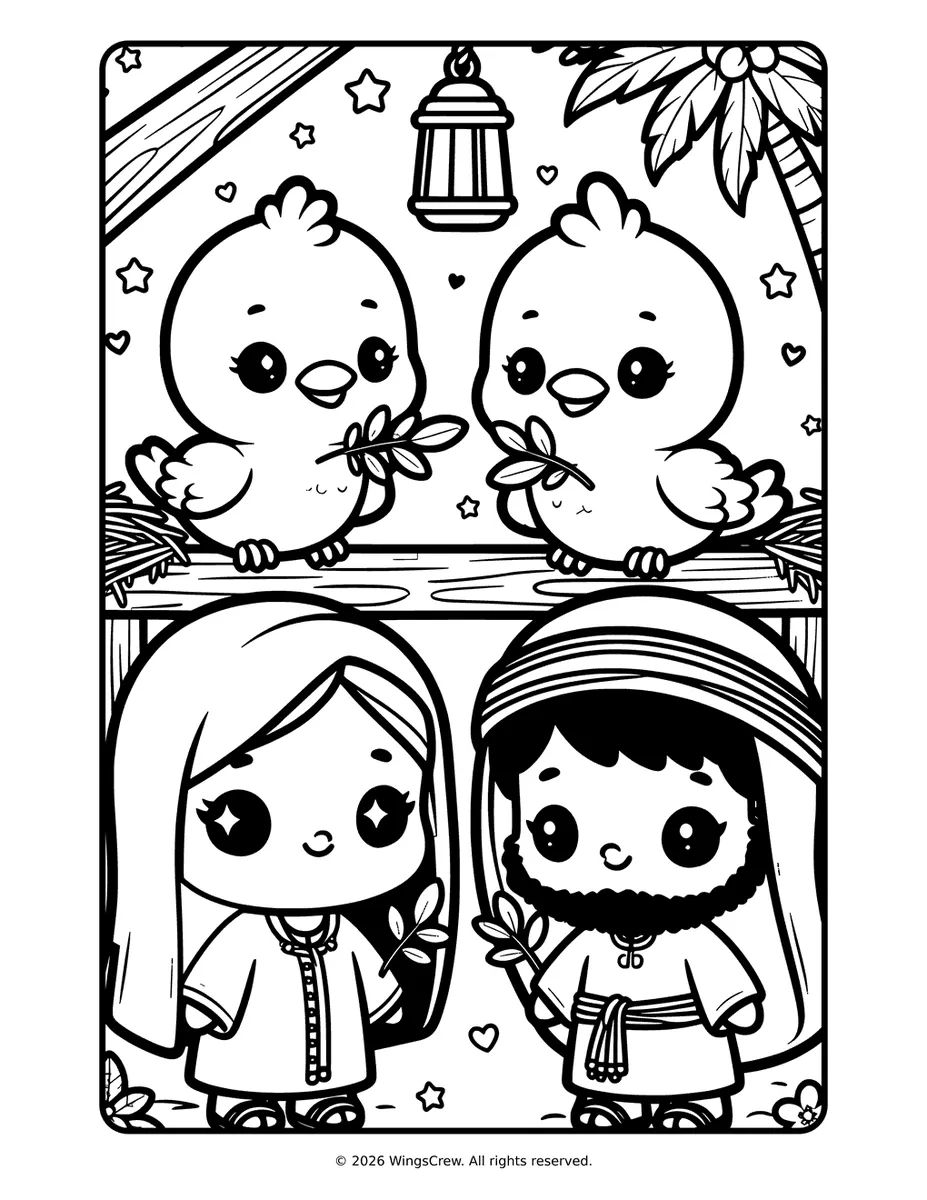
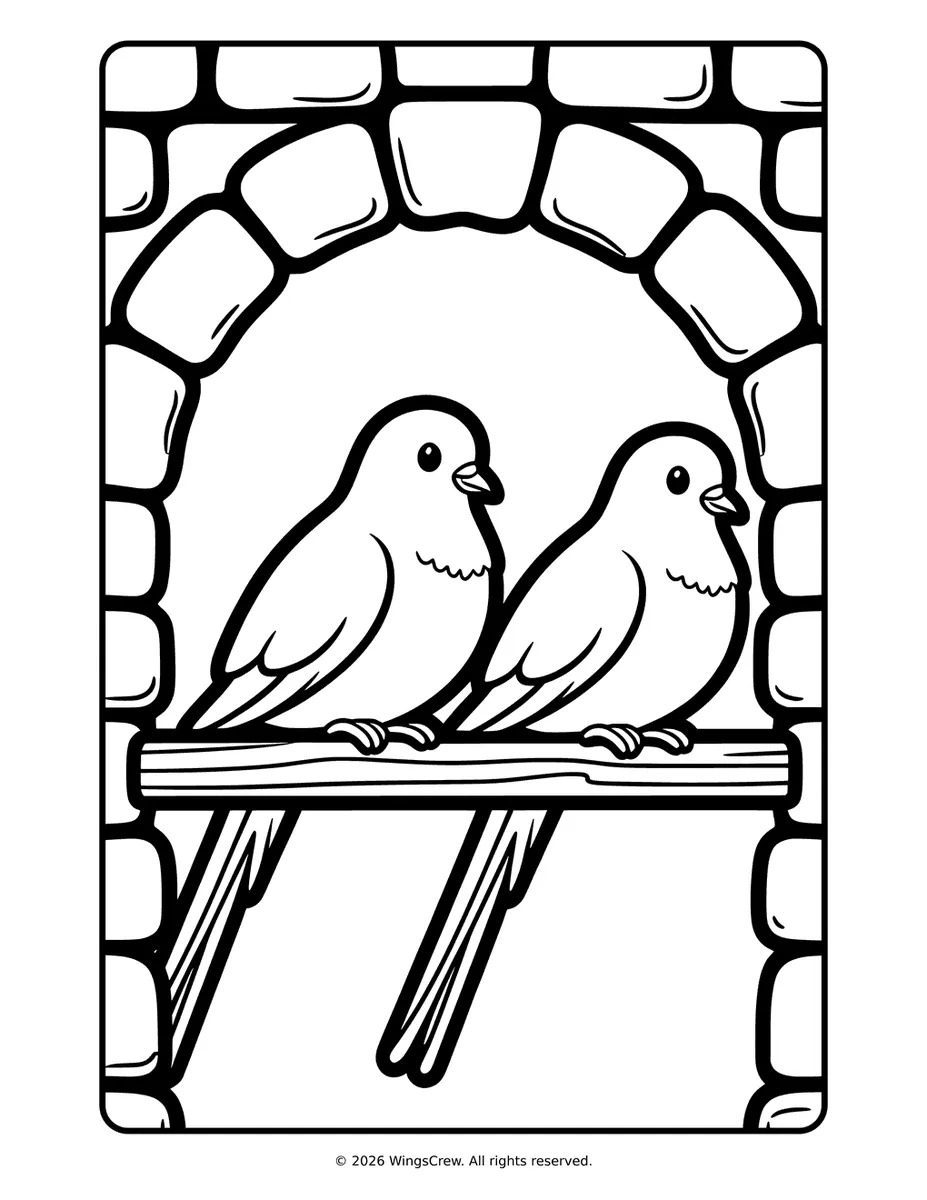
Replace the nativity page 22 art and mark it NEW.
The file names stay p22_a.webp and p22_b.webp. The set version is 2 so phones load the redo.

diff --git a/assets/coloring-sets.js b/assets/coloring-sets.js
@@ -56,10 +56,9 @@
     {
       id: "nativity",
       title: "Reason for the Season: A Cute Nativity Coloring Book",
-      // ?v=1 on every image URL. File names stay pNN_a.webp and pNN_b.webp.
-      // Page 22 will be replaced later. Bump version (or that page's version)
-      // when the files change so phones load the new art.
-      version: 1,
+      // ?v=2 on every image URL. File names stay pNN_a.webp and pNN_b.webp.
+      // Bump version (or one page's version) when a file is replaced.
+      version: 2,
       pages: numberedPages(30, {
         1: { badge: "NEW" },
         9: { badge: "NEW" },
@@ -67,6 +66,7 @@
         17: { badge: "NEW" },
         19: { badge: "NEW" },
         21: { badge: "NEW" },
+        22: { badge: "NEW" },
         28: { badge: "NEW" },
         29: { badge: "NEW" },
       }),
